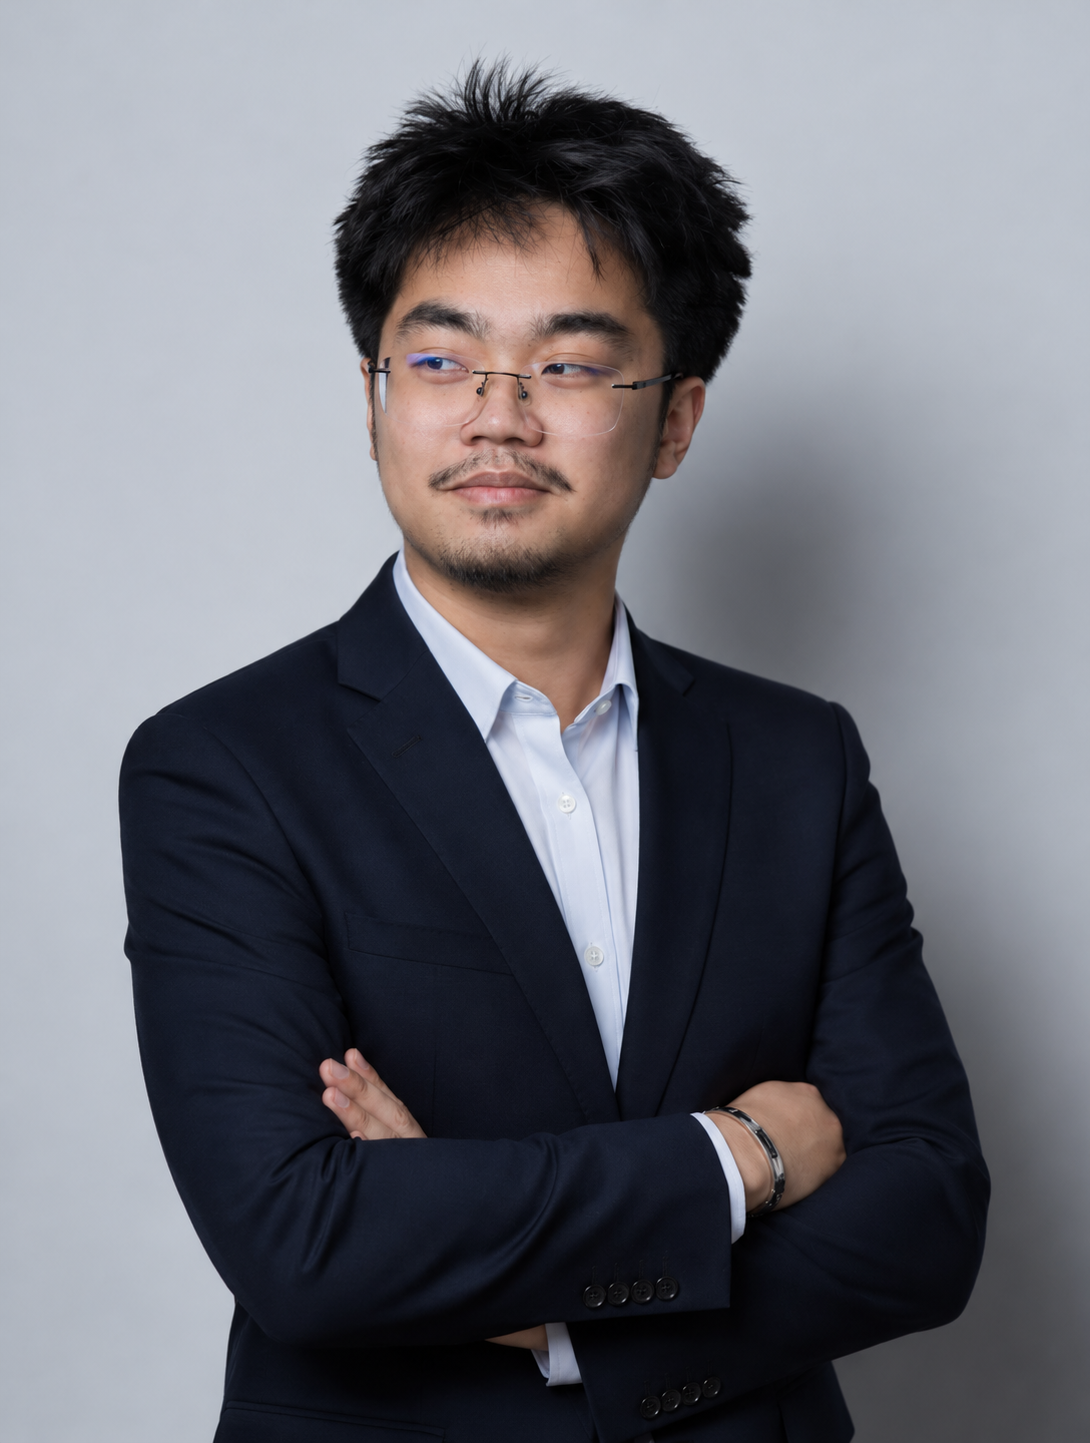
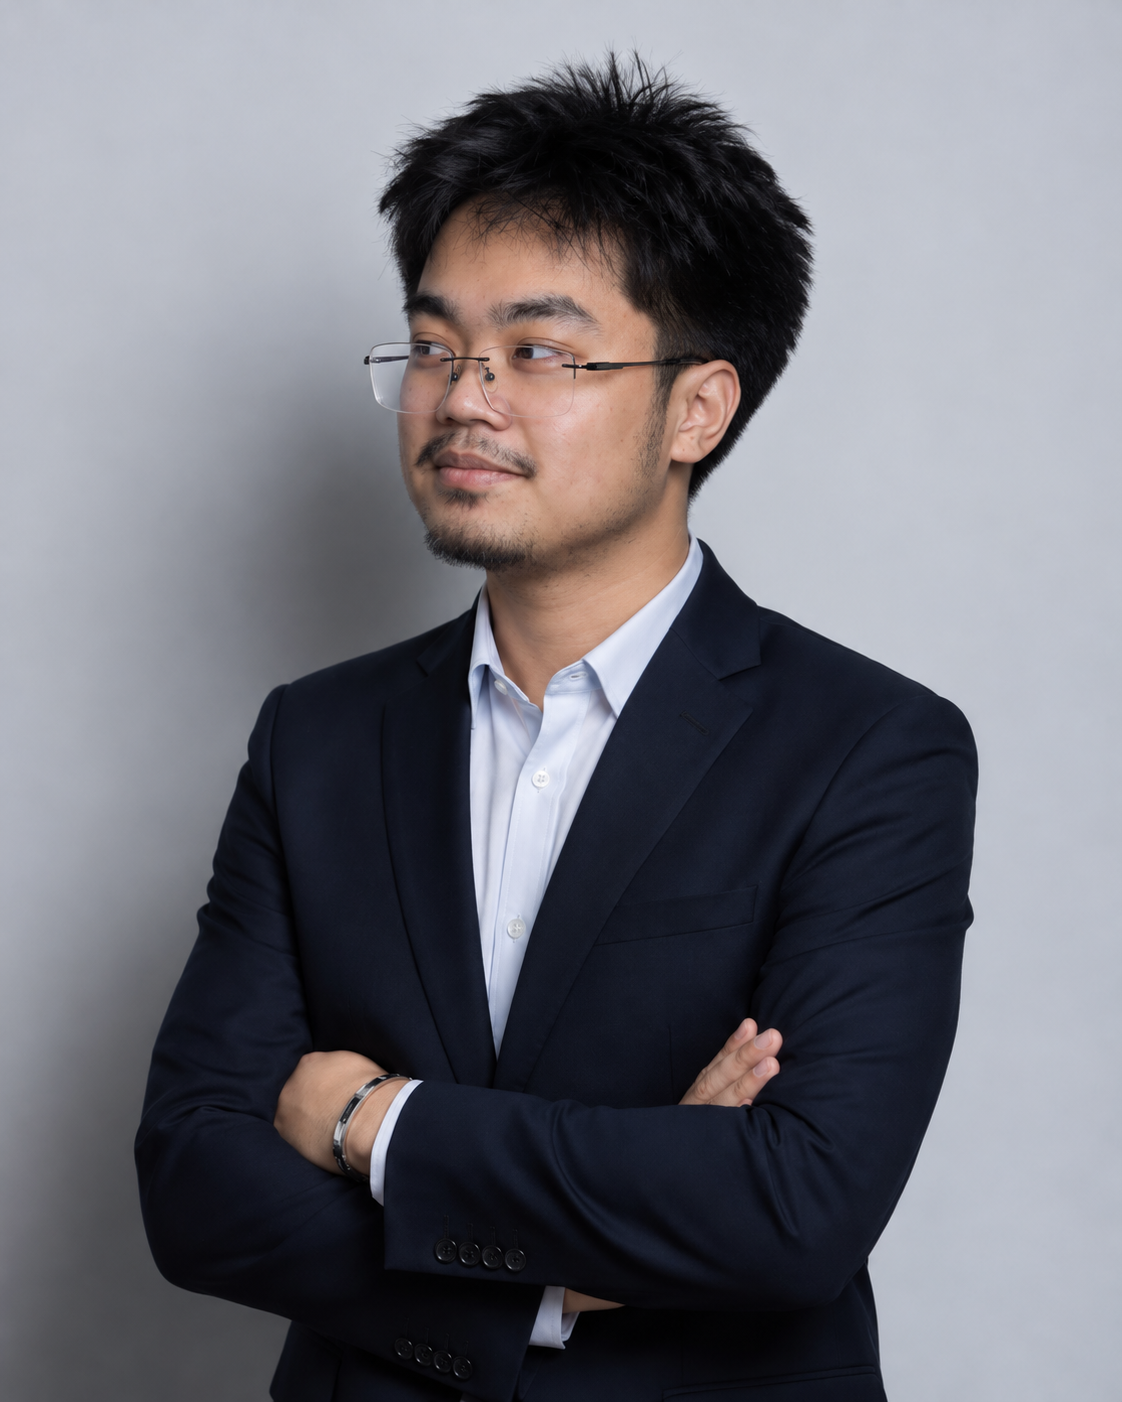
Replace mirrored portrait with genuine left-facing asset

diff --git a/src/lib/portraitAssets.ts b/src/lib/portraitAssets.ts
@@ -18,8 +18,7 @@ export type DirectionalPortraitSources = Partial<Record<PortraitDirection, strin
  */
 export const directionalPortraitSources: DirectionalPortraitSources = {
   neutral: "/images/portrait-directional/portrait-neutral.png",
-  // The generated horizontal set did not contain a screen-left gaze. The missing
-  // state is supplied by the lossless, full-resolution flipped asset below.
+  // Dedicated screen-left gaze asset; kept separate from the original generated set.
   left: "/images/portrait-directional/portrait-left-screen.png",
   right: "/images/portrait-directional/portrait-left.png",
   up: "/images/portrait-directional/portrait-up.png",
